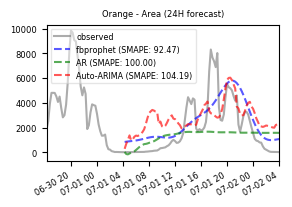
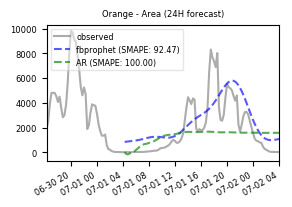
before changing fbprophetcomparcv to Pool.map()

diff --git a/ts-fbprophet-crossval.py b/ts-fbprophet-crossval.py
@@ -23,7 +23,7 @@ plotforecasts, plotcrossvals, plotcvuncertainty = False, True, True
 slices_per_hour = 4  # 15m = 4, 30m = 2, 60m = 1
 startdate = dateutil.parser.parse('2017-06-27 12:00:00')  # goes from 26-06 to 05-07
 enddate = dateutil.parser.parse('2017-07-02 12:00:00')
-filename_data = '2017_devicecount15m.csv'
+filename_data = '2017_dcount15m_harmonised.csv'
 filename_pols = '2017_polygonlist.csv'
 basepath = 'data/'
 
@@ -71,15 +71,35 @@ def crossval_fbprophet(model, polygon):
     return df_cv
 
 
-# calculate MAPE (timeseries evaluation metric)
-def mean_absolute_percentage_error(y_true, y_pred):
-    y_true, y_pred = np.array(y_true), np.array(y_pred)
-    return np.mean(np.abs((y_true - y_pred) / y_true)) * 100
+# calculate SMAPE (timeseries evaluation metric)
+def SMAPE(y_true, y_pred):
+    try:
+        denominator = (np.abs(y_true) + np.abs(y_pred))
+        diff = np.abs(y_true - y_pred) / denominator
+        diff[denominator == 0] = 0.0
+        return 200 * np.mean(diff)
+    except ValueError:
+        return 0
 
 
 def evaluate_cv_per_hour(df_cv, polygon):
     list_cvscore_per_hr = []
-    # plot
+
+    # report scores for each hour range
+    for hr_range in hr_range_arr:
+        # cut data for each hour range
+        df_cv = df_cv.iloc[0:hr_range * slices_per_hour]
+        # define metrics & create score
+        RMSE = np.sqrt(mean_squared_error(df_cv.y, df_cv.yhat))
+        R2 = r2_score(df_cv.y, df_cv.yhat)
+        SMAPE = SMAPE(df_cv.y, df_cv.yhat)
+        list_cvscore_per_hr.append({'POLYGON': polygon, 'HOUR': hr_range, 'RSQUARED': R2, 'RMSE': RMSE, 'SMAPE': SMAPE})
+        # plot
+        plot_crossval(df_cv, polygon)
+
+    return list_cvscore_per_hr
+
+def plot_crossval(df_cv, polygon):
     # set timestamp as index and convert to datetime
     df_plot = df_cv.set_index('ds')
     df_plot.index = pd.to_datetime(df_plot.index, infer_datetime_format=True)
@@ -97,10 +117,10 @@ def evaluate_cv_per_hour(df_cv, polygon):
         plt.clf()
     if plotcvuncertainty:
         fig = plt.figure(0)
+        df_plot.y.plot()
         df_plot.yhat.plot()
         plt.fill_between(df_plot.index, df_plot.yhat_lower, df_plot.yhat_upper, interpolate=False, facecolor='b',
                          edgecolor='#1B2ACC', antialiased=True, alpha=.1)
-        df_plot.y.plot()
         # plt.plot(df_plot.index, df_plot.y)
         # plt.plot(df_plot.index, df_plot.yhat)
         # plt.errorbar(df_plot.index, df_plot.yhat, yerr=[y-df_plot.yhat_upper, y-df_plot.yhat_lower], uplims=True, lolims=True)
@@ -111,19 +131,6 @@ def evaluate_cv_per_hour(df_cv, polygon):
         plt.savefig('img/' + 'cv_uc_' + filename_data + '_pol' + str(polygon) + '.png', bbox_inches='tight')
         plt.close()
         plt.clf()
-
-    # report scores for each hour range
-    for hr_range in hr_range_arr:
-        # cut data for each hour range
-        df_cv = df_cv.iloc[0:hr_range * slices_per_hour]
-        # define metrics & create score
-        RMSE = np.sqrt(mean_squared_error(df_cv.y, df_cv.yhat))
-        R2 = r2_score(df_cv.y, df_cv.yhat)
-        MAPE = mean_absolute_percentage_error(df_cv.y, df_cv.yhat)
-        list_cvscore_per_hr.append({'POLYGON': polygon, 'HOUR': hr_range, 'RSQUARED': R2, 'RMSE': RMSE, 'MAPE': MAPE})
-
-    return list_cvscore_per_hr
-
 
 # parallelise calculations
 from joblib import Parallel, delayed
@@ -167,10 +174,11 @@ if __name__ == "__main__":
     df_orig = pd.read_csv(basepath + filename_data)
     df_polygons = pd.read_csv(basepath + filename_pols, nrows=None)
     list_polygons = df_polygons.values.flatten()
+    print(list_polygons)
     # parallelise processing
     allresults = Manager().list([])  # enable memory sharing between processes
     parallelise(df_orig, list_polygons, allresults)
     # create a df of all dicts, join with polygon names
     df_final = create_final_df(allresults)
-    df_final.to_csv('results.csv')
+    df_final.to_csv('results/2017_fbprophet-cvresults.csv')
     print(df_final.tail(n=10))

diff --git a/ts-compare-methods.py b/ts-compare-methods.py
@@ -219,11 +219,12 @@ def process(polygon):
 
 # run stuff
 #will not work for some polys
-df_polygons = pd.read_csv('data/2017_polygoninfo_filtered.csv', usecols=["ogr_fid"], nrows=None)
-polygon_list = df_polygons.values.astype(int).flatten()
-print(polygon_list)
+#df_polygons = pd.read_csv('data/2017_polygoninfo_filtered.csv', usecols=["ogr_fid"], nrows=None)
+#polygon_list = df_polygons.values.astype(int).flatten()
+#print(polygon_list)
 #polygon_list = [6, 49, 18, 5, 25, 11, 16, 10]  # Inner Area, Orange, Rising, Camping C + E, Bridge, Tradezone, Street City
-#autoARIMA = True
+polygon_list = 19
+autoARIMA = False
 
 if __name__ == '__main__':
     if isinstance(polygon_list, int):
